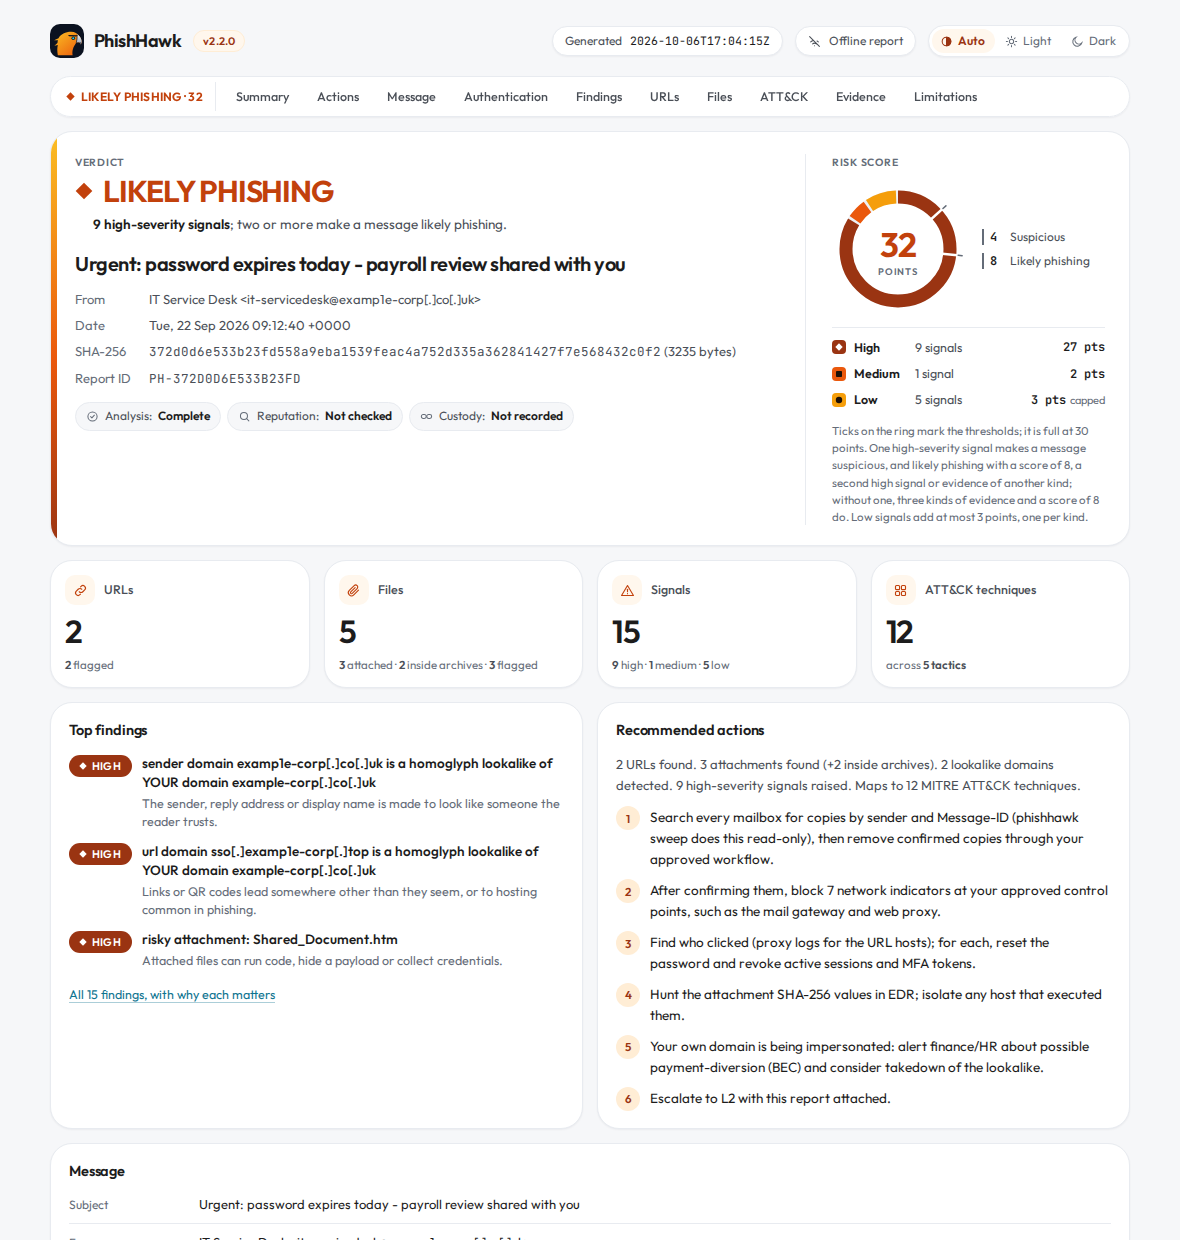
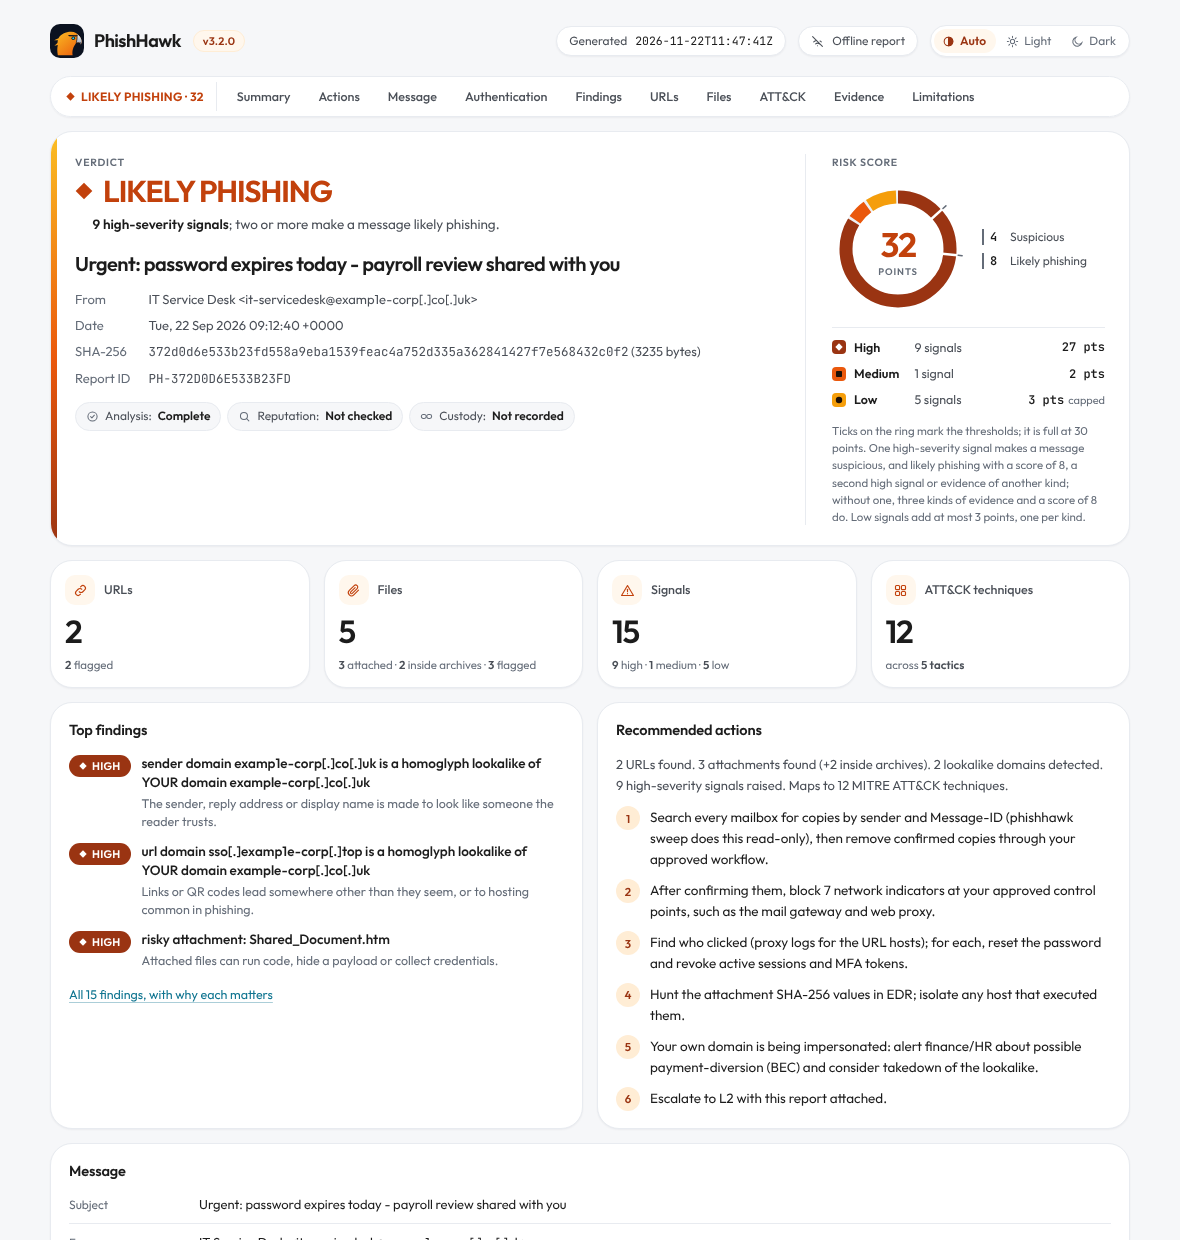
Show 3.2.0 in the report pictures on the site and in the README
The report screenshots on the product and sign-in pages and in the README
were taken from 2.2.0 and still showed that version. They are new
screenshots from tools/make_report_shots.py; the site's are the same
pictures as lossless WebP, and the test that pins them has their new
hashes (with the lock manifest's new hash for that test).

diff --git a/frontend/src/__tests__/rules.test.ts b/frontend/src/__tests__/rules.test.ts
@@ -133,8 +133,8 @@ test('report pictures are either absent or the real ones from the PhishHawk repo
   // PhishHawk repository, as lossless WebP) after export. Until then the login showcase shows its
   // fallback; generated pictures are not allowed.
   const real: Record<string, string> = {
[4 lines of base64/hex data omitted]
   };
   for (const [path, sha256] of Object.entries(real)) {
     if (!existsSync(root + path)) continue;

diff --git a/CHANGELOG.md b/CHANGELOG.md
@@ -18,6 +18,12 @@ the JSON and STIX output are the public interface.
   keeps its screen-tall space while its code loads, without boxes it does
   not have.
 
+- The report pictures on the product and sign-in pages and in the README
+  show the current report, labelled 3.2.0. They were taken from 2.2.0 and
+  still showed that version. All are new screenshots from
+  `tools/make_report_shots.py`; the site's are the same pictures as lossless
+  WebP.
+
 - The product page quotes 3.2's evaluation: 81.4% of 5,714 held-out phishing
   emails flagged and 47.8% called likely phishing, 45 of 5,945 legitimate
   emails flagged, a median of 6 ms a message, measured with the 3.2 engine. It
